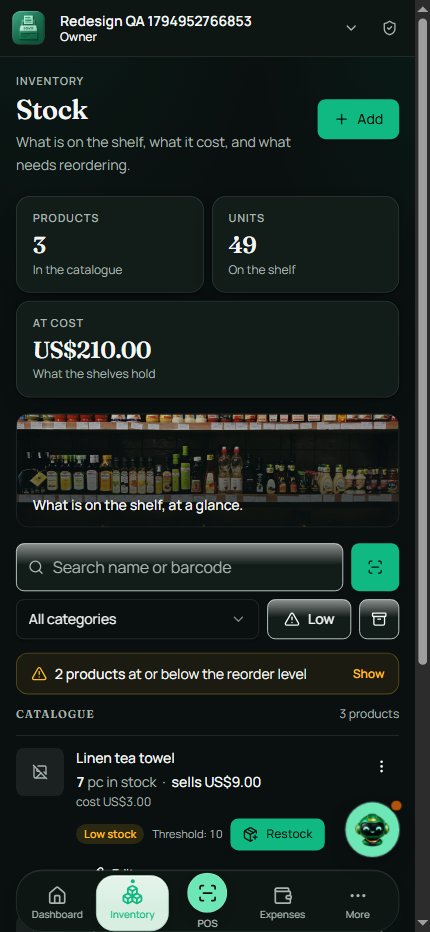
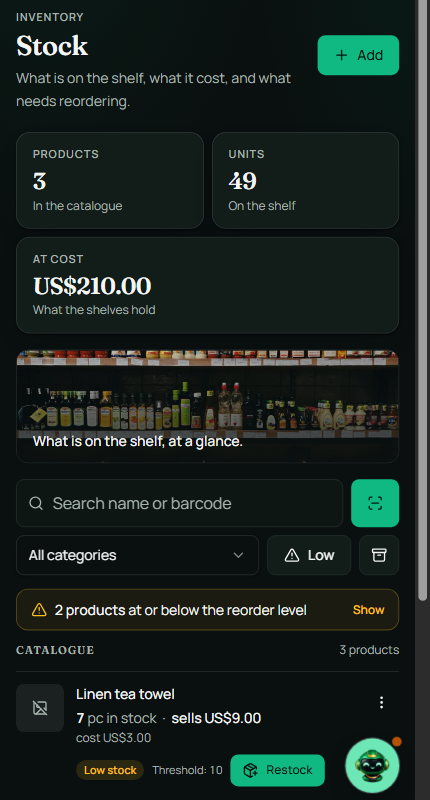
Show the real product in the marketing panels and flatten the buttons.
The four working-day panels were frosted cards of skeleton bars; they now show
cropped screenshots of the actual point of sale, stock, customer-account and
report screens inside flat emerald frames, so nothing on the public site is an
invented interface. Buttons lose the last translucent fills and alpha hovers.

🤖 Generated with Codebuff

diff --git a/src/routes/index.tsx b/src/routes/index.tsx
@@ -16,6 +16,13 @@ import { SiteShell } from "@/components/marketing/SiteShell";
 import { PAGE_BODY, SectionHeading } from "@/components/marketing/Sections";
 import { HOME_EYEBROW, HOME_HEADLINE, HOME_META, SITE_URL, webApplicationJsonLd } from "@/lib/seo";
 
+const SCREEN_SHOTS = [
+  "/showcase/showcase-pos.png",
+  "/showcase/showcase-inventory.png",
+  "/showcase/showcase-debtors.png",
+  "/showcase/showcase-reports.png",
+] as const;
+
 export const Route = createFileRoute("/")({
   head: () => ({
     meta: [...HOME_META],
@@ -201,40 +208,22 @@ function Landing() {
                   </ul>
                 </div>
 
-                <div className="savo-glass-paper rounded-3xl p-6 sm:p-8">
-                  <div className="flex items-center gap-2 text-[11px] font-semibold uppercase tracking-[0.16em] text-ink-soft">
+                <div className="overflow-hidden rounded-3xl border border-[var(--brand-line)] bg-[var(--brand-raised)] p-3 sm:p-4">
+                  <div className="mb-3 flex items-center gap-2 px-1 text-[11px] font-semibold uppercase tracking-[0.16em] text-ink-soft">
                     <step.icon className="size-4" aria-hidden />
                     {step.screen}
                   </div>
-                  {/* Illustrative structure only — no invented figures, no fake
-                      transactions, nothing that reads as a live dashboard. */}
-                  <div className="mt-5 space-y-2.5">
-                    {[72, 88, 64, 80].map((width, rowIndex) => (
-                      <div
-                        key={width}
-                        className="flex items-center gap-3 rounded-xl border border-border/70 bg-card/70 px-3 py-2.5"
-                      >
-                        <span
-                          className="size-7 shrink-0 rounded-lg"
-                          style={{
-                            background:
-                              rowIndex % 2 === 0
-                                ? "color-mix(in oklab, var(--mint) 70%, white)"
-                                : "color-mix(in oklab, var(--ink-soft) 16%, white)",
-                          }}
-                        />
-                        <span className="min-w-0 flex-1">
-                          <span
-                            className="block h-2 rounded-full bg-ink/12"
-                            style={{ width: `${width}%` }}
-                          />
-                          <span className="mt-1.5 block h-1.5 w-1/3 rounded-full bg-ink/8" />
-                        </span>
-                      </div>
-                    ))}
-                  </div>
-                  <p className="mt-5 text-xs leading-relaxed text-muted-foreground">
-                    {step.caption}
+                  <img
+                    src={SCREEN_SHOTS[index] ?? SCREEN_SHOTS[0]}
+                    alt={`SAVO ${step.screen} screen`}
+                    width={430}
+                    height={800}
+                    loading="lazy"
+                    decoding="async"
+                    className="mx-auto w-full max-w-[17rem] rounded-xl border border-[var(--brand-line)] bg-[var(--brand-surface)]"
+                  />
+                  <p className="mt-3 px-1 text-xs leading-relaxed text-muted-foreground">
+                    {step.caption} Screenshot from the running app.
                   </p>
                 </div>
               </article>
@@ -372,7 +361,7 @@ function Landing() {
                         src={shot.src}
                         alt={`SAVO ${shot.label} screen`}
                         width={430}
-                        height={932}
+                        height={800}
                         loading="lazy"
                         decoding="async"
                         className="w-full"

diff --git a/src/components/ui/button.tsx b/src/components/ui/button.tsx
@@ -8,19 +8,19 @@ const buttonVariants = cva(
   // `press` and `hover-glass` carry the whole interaction system: a 1.5% press
   // that also dims, and a 0.4% lift that also brightens, both gated so a phone
   // never gets a stuck hover state.
-  "press hover-glass inline-flex cursor-pointer items-center justify-center gap-2 whitespace-nowrap rounded-md text-sm font-medium focus-visible:outline-none focus-visible:ring-1 focus-visible:ring-ring disabled:pointer-events-none disabled:opacity-50 disabled:cursor-not-allowed [&_svg]:pointer-events-none [&_svg]:size-4 [&_svg]:shrink-0",
+  "press inline-flex cursor-pointer items-center justify-center gap-2 whitespace-nowrap rounded-md text-sm font-medium focus-visible:outline-none focus-visible:ring-1 focus-visible:ring-ring disabled:pointer-events-none disabled:opacity-50 disabled:cursor-not-allowed [&_svg]:pointer-events-none [&_svg]:size-4 [&_svg]:shrink-0",
   {
     variants: {
       variant: {
-        default: "bg-primary text-primary-foreground shadow-sm hover:bg-primary/90",
+        default: "bg-[var(--brand-primary)] text-[#04140e] hover:bg-[#0ea472]",
         destructive: "bg-destructive text-destructive-foreground shadow-sm hover:bg-destructive/90",
         // Outline and secondary are the everyday glass controls: level 2, so
         // they sit quietly inside the level 1 surfaces they appear on.
         outline:
-          "glass-2 border border-glass-2-line text-foreground hover:bg-accent hover:text-accent-foreground",
+          "border border-[var(--brand-line)] bg-[var(--brand-raised)] text-foreground hover:bg-[var(--brand-surface)]",
         secondary:
-          "glass-2 border border-glass-2-line text-secondary-foreground hover:bg-secondary/80",
-        ghost: "hover:bg-accent hover:text-accent-foreground",
+          "border border-[var(--brand-line)] bg-[var(--brand-surface)] text-foreground hover:bg-[var(--brand-raised)]",
+        ghost: "text-foreground hover:bg-[var(--brand-raised)]",
         link: "text-primary underline-offset-4 hover:underline",
       },
       size: {
